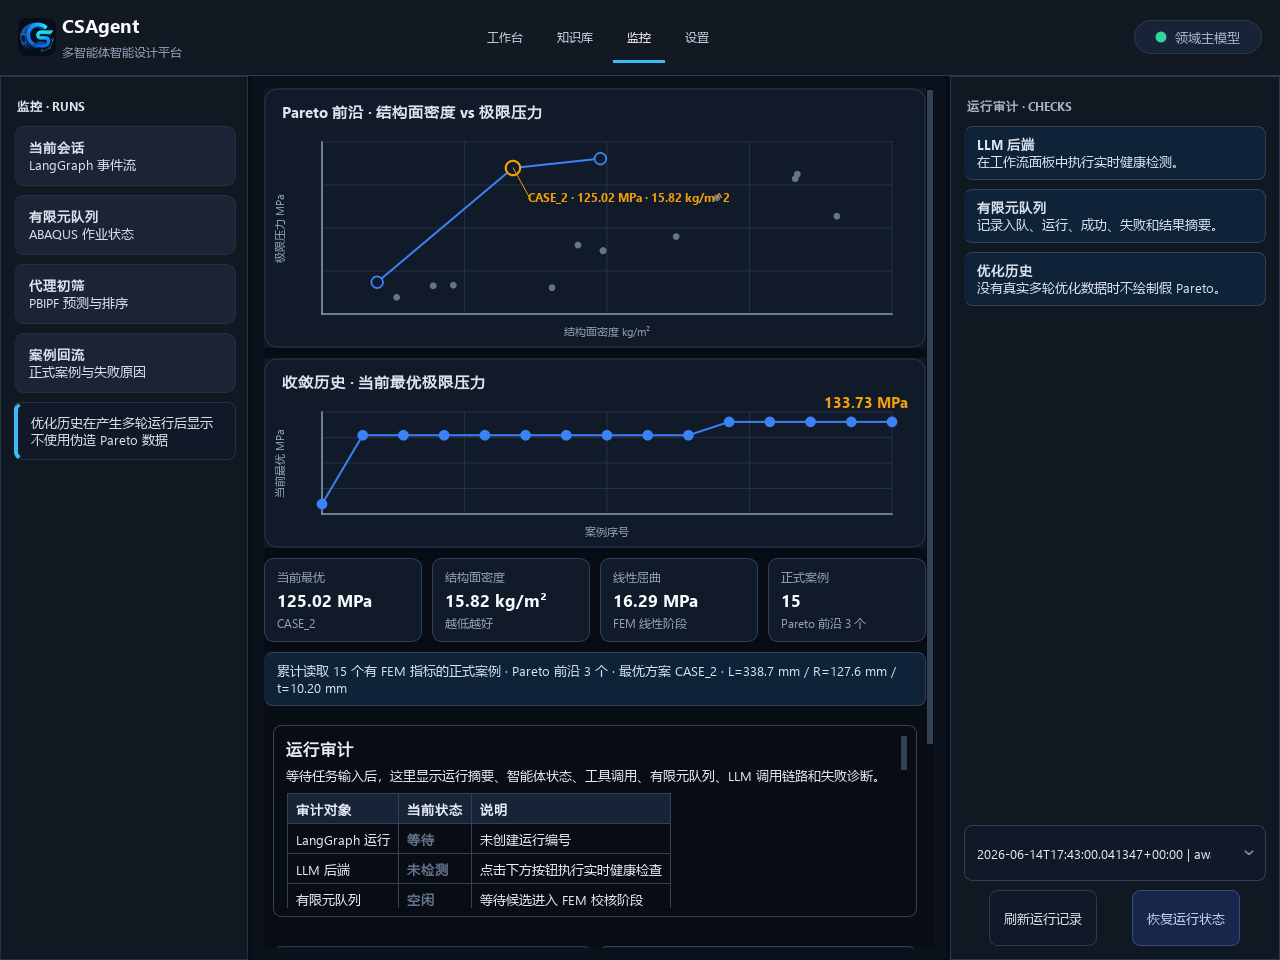
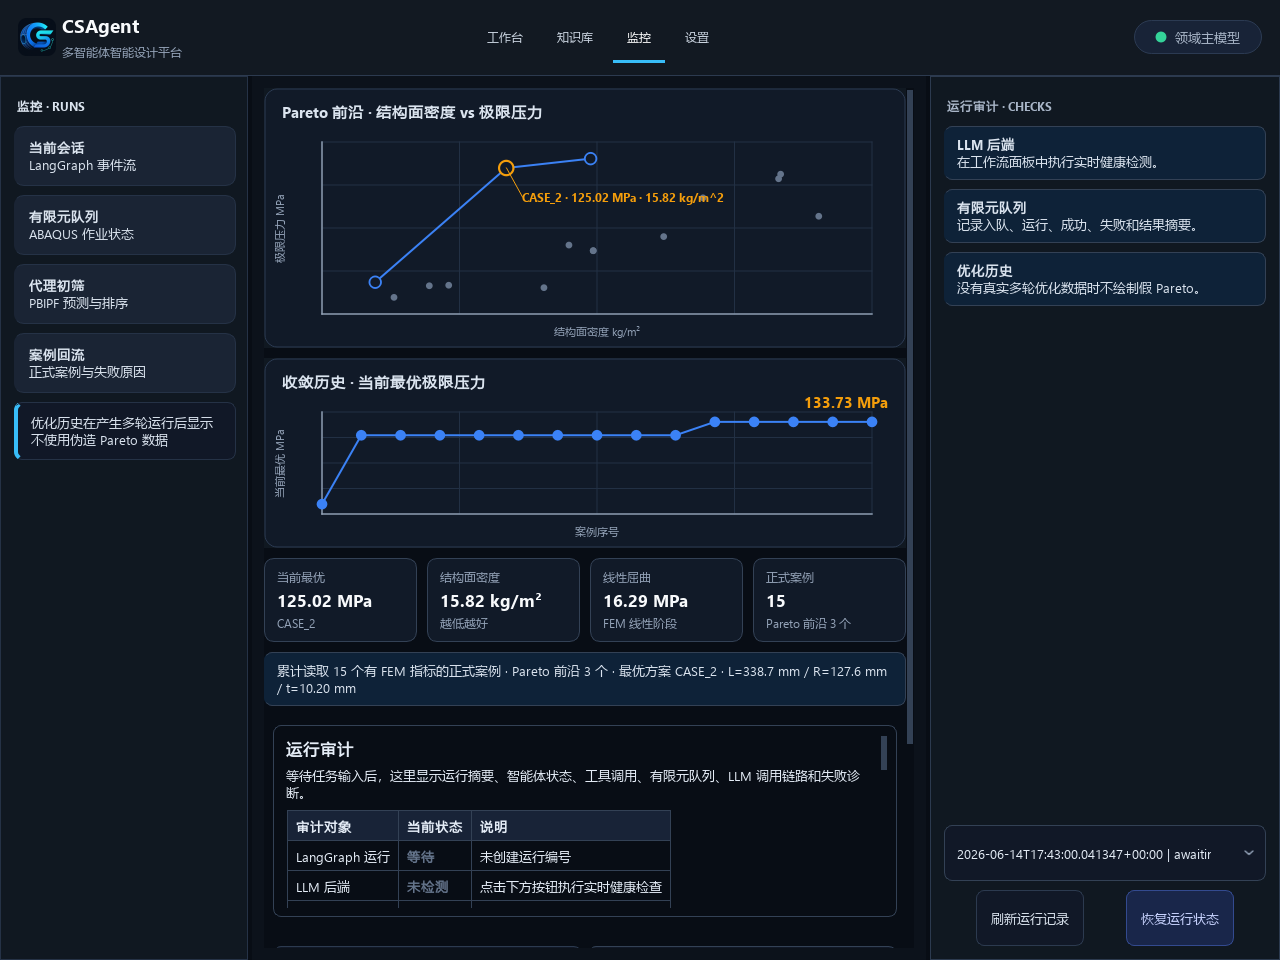
修正工作台右栏自适应布局

diff --git a/gui/main_window.py b/gui/main_window.py
@@ -16,7 +16,7 @@ PROJECT_ROOT = Path(__file__).resolve().parent.parent
 if str(PROJECT_ROOT) not in sys.path:
     sys.path.insert(0, str(PROJECT_ROOT))
 
-UI_LAYOUT_VERSION = 9
+UI_LAYOUT_VERSION = 10
 
 from PyQt6 import sip
 from PyQt6.QtCore import QObject, QRectF, QSettings, QSize, Qt, QThread, QUrl, pyqtSignal
@@ -599,7 +599,7 @@ class MainWindow(QMainWindow):
         workbench_layout.addWidget(workbench_splitter)
 
         right_layout = QVBoxLayout()
-        right_layout.setContentsMargins(10, 14, 22, 14)
+        right_layout.setContentsMargins(12, 14, 12, 14)
         right_layout.setSpacing(8)
         live_header_layout = QHBoxLayout()
         live_header_layout.setContentsMargins(0, 0, 0, 0)
@@ -681,6 +681,7 @@ class MainWindow(QMainWindow):
 
         workbench_right_content = QWidget()
         workbench_right_content.setObjectName("resultRailContent")
+        workbench_right_content.setSizePolicy(QSizePolicy.Policy.Ignored, QSizePolicy.Policy.Preferred)
         workbench_right_content.setLayout(right_layout)
         workbench_right_scroll = QScrollArea()
         workbench_right_scroll.setObjectName("resultRail")
@@ -688,6 +689,8 @@ class MainWindow(QMainWindow):
         workbench_right_scroll.setFrameShape(QFrame.Shape.NoFrame)
         workbench_right_scroll.setHorizontalScrollBarPolicy(Qt.ScrollBarPolicy.ScrollBarAlwaysOff)
         workbench_right_scroll.setWidget(workbench_right_content)
+        self.workbench_right_scroll = workbench_right_scroll
+        self.workbench_right_content = workbench_right_content
 
         workbench_right = QWidget()
         workbench_right.setObjectName("resultRailShell")
@@ -731,9 +734,23 @@ class MainWindow(QMainWindow):
         main_splitter.addWidget(self.stack)
         main_splitter.addWidget(self.right_stack)
         main_splitter.setChildrenCollapsible(False)
+        main_splitter.setStretchFactor(0, 0)
+        main_splitter.setStretchFactor(1, 1)
+        main_splitter.setStretchFactor(2, 0)
         main_splitter.setSizes([270, 980, 370])
         self.main_splitter = main_splitter
         self.setCentralWidget(main_splitter)
+
+    def _sync_main_splitter_sizes(self) -> None:
+        if not hasattr(self, "main_splitter"):
+            return
+        total_width = max(0, self.main_splitter.width())
+        if total_width <= 0:
+            total_width = max(0, self.width())
+        right_width = min(386, max(350, int(total_width * 0.24)))
+        left_width = min(286, max(248, int(total_width * 0.18)))
+        center_width = max(520, total_width - left_width - right_width)
+        self.main_splitter.setSizes([left_width, center_width, right_width])
 
     def _sidebar_page(self, title: str, cards: list[tuple[str, str]], footer: str = "") -> QWidget:
         page = QWidget()
@@ -1983,6 +2000,7 @@ class MainWindow(QMainWindow):
             self.ui_state_settings.clear()
             self._resize_to_available_work_area()
             self._ensure_window_within_work_area(clamp_to_target=True)
+            self._sync_main_splitter_sizes()
             return
         geometry = self.ui_state_settings.value("window_geometry")
         state = self.ui_state_settings.value("window_state")
@@ -1994,6 +2012,7 @@ class MainWindow(QMainWindow):
         if not geometry_restored:
             self._resize_to_available_work_area()
         self._ensure_window_within_work_area(clamp_to_target=True)
+        self._sync_main_splitter_sizes()
 
     def _save_window_layout(self) -> None:
         self.ui_state_settings.setValue("layout_version", UI_LAYOUT_VERSION)

diff --git a/tests/test_main_window.py b/tests/test_main_window.py
@@ -517,6 +517,27 @@ def test_main_window_requested_width_is_not_expanded_by_hidden_pages(monkeypatch
         app.processEvents()
 
 
+def test_workbench_right_rail_fits_non_maximized_viewport(monkeypatch) -> None:
+    monkeypatch.setenv("CSDM_cph_DISABLE_LLM_AUTO", "1")
+    app = _app()
+    window = MainWindow()
+    try:
+        window.locale.set_theme("dark")
+        window._apply_styles()
+        window.resize(1280, 960)
+        window._sync_main_splitter_sizes()
+        window.show()
+        app.processEvents()
+
+        margins = window.workbench_right_content.layout().contentsMargins()
+        assert margins.left() == margins.right()
+        assert window.workbench_right_scroll.viewport().width() >= window.workbench_right_content.width() - 1
+        assert window.right_stack.width() >= 350
+    finally:
+        window.close()
+        app.processEvents()
+
+
 def test_candidate_pool_empty_and_runtime_use_same_splitter_balance() -> None:
     app = _app()
     widget = CandidateWidget()
